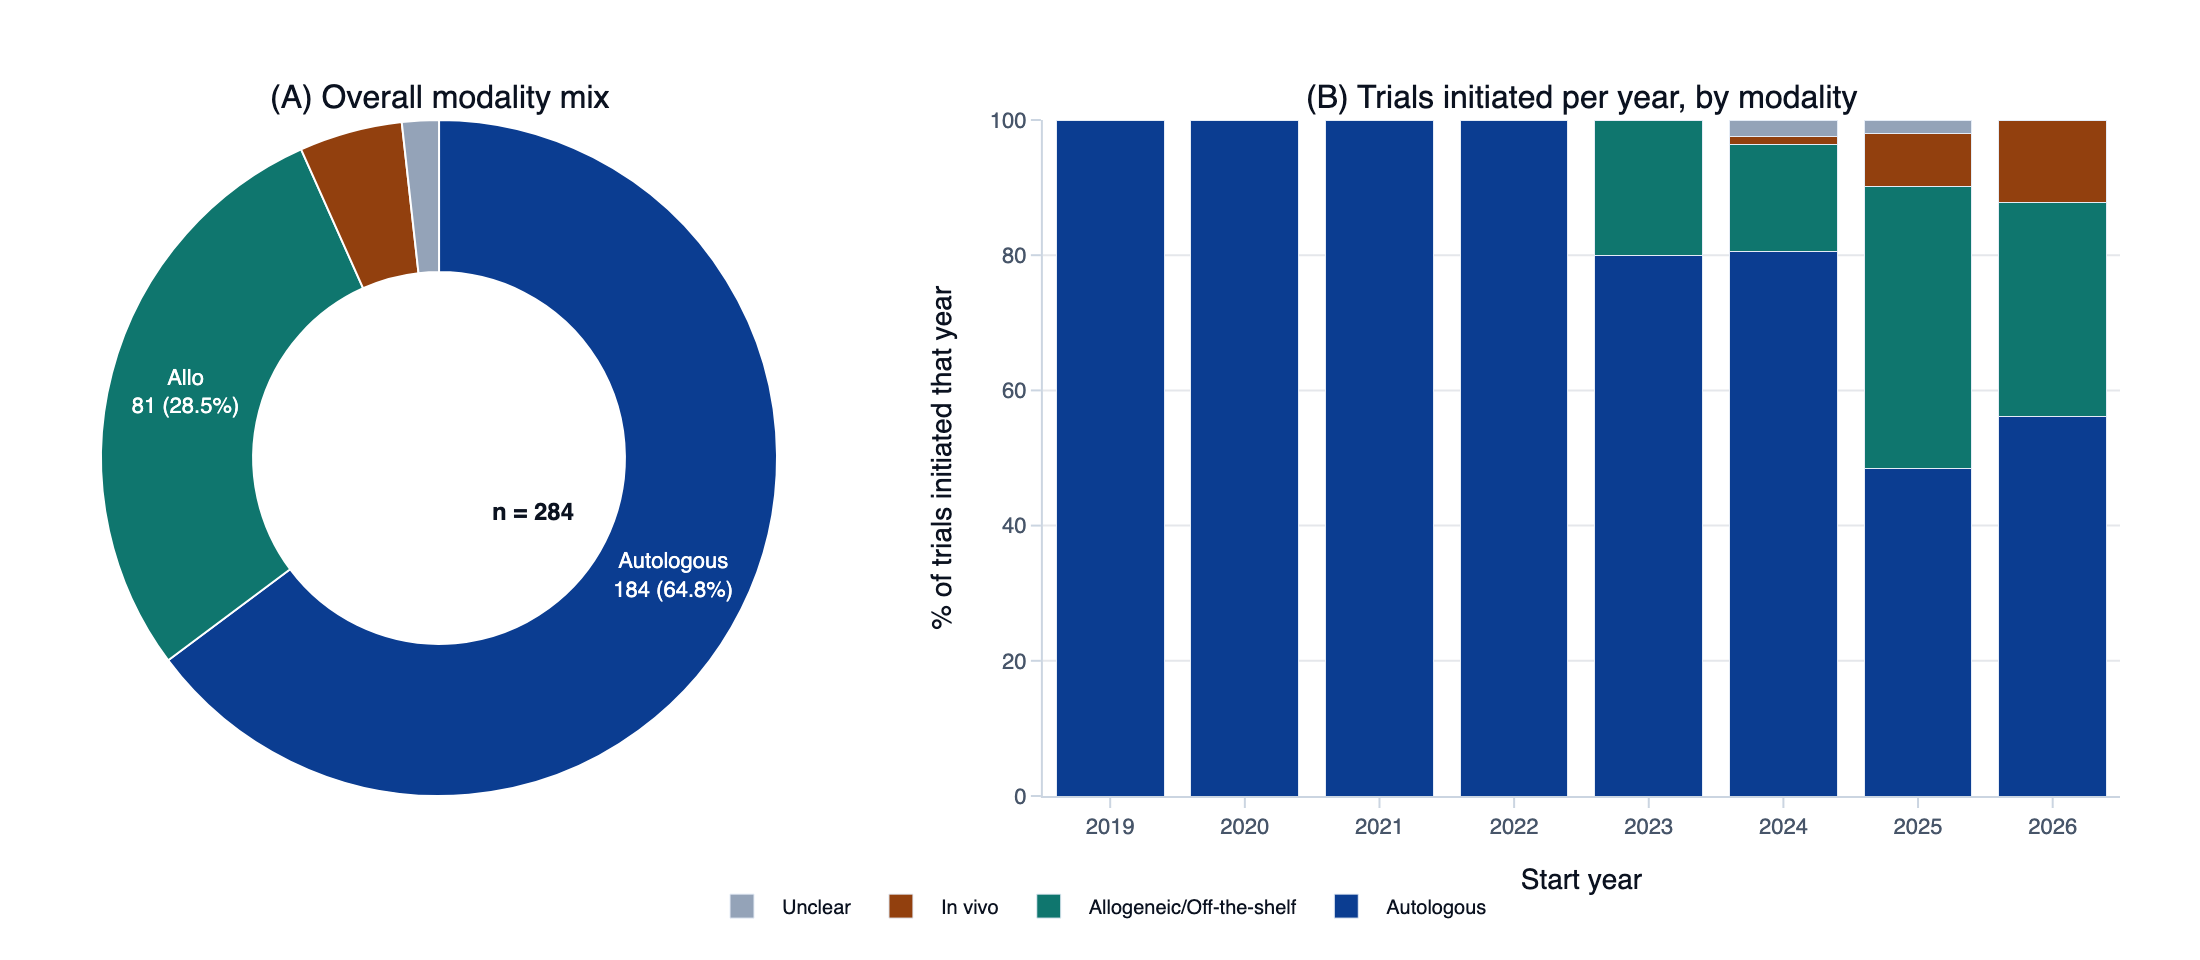
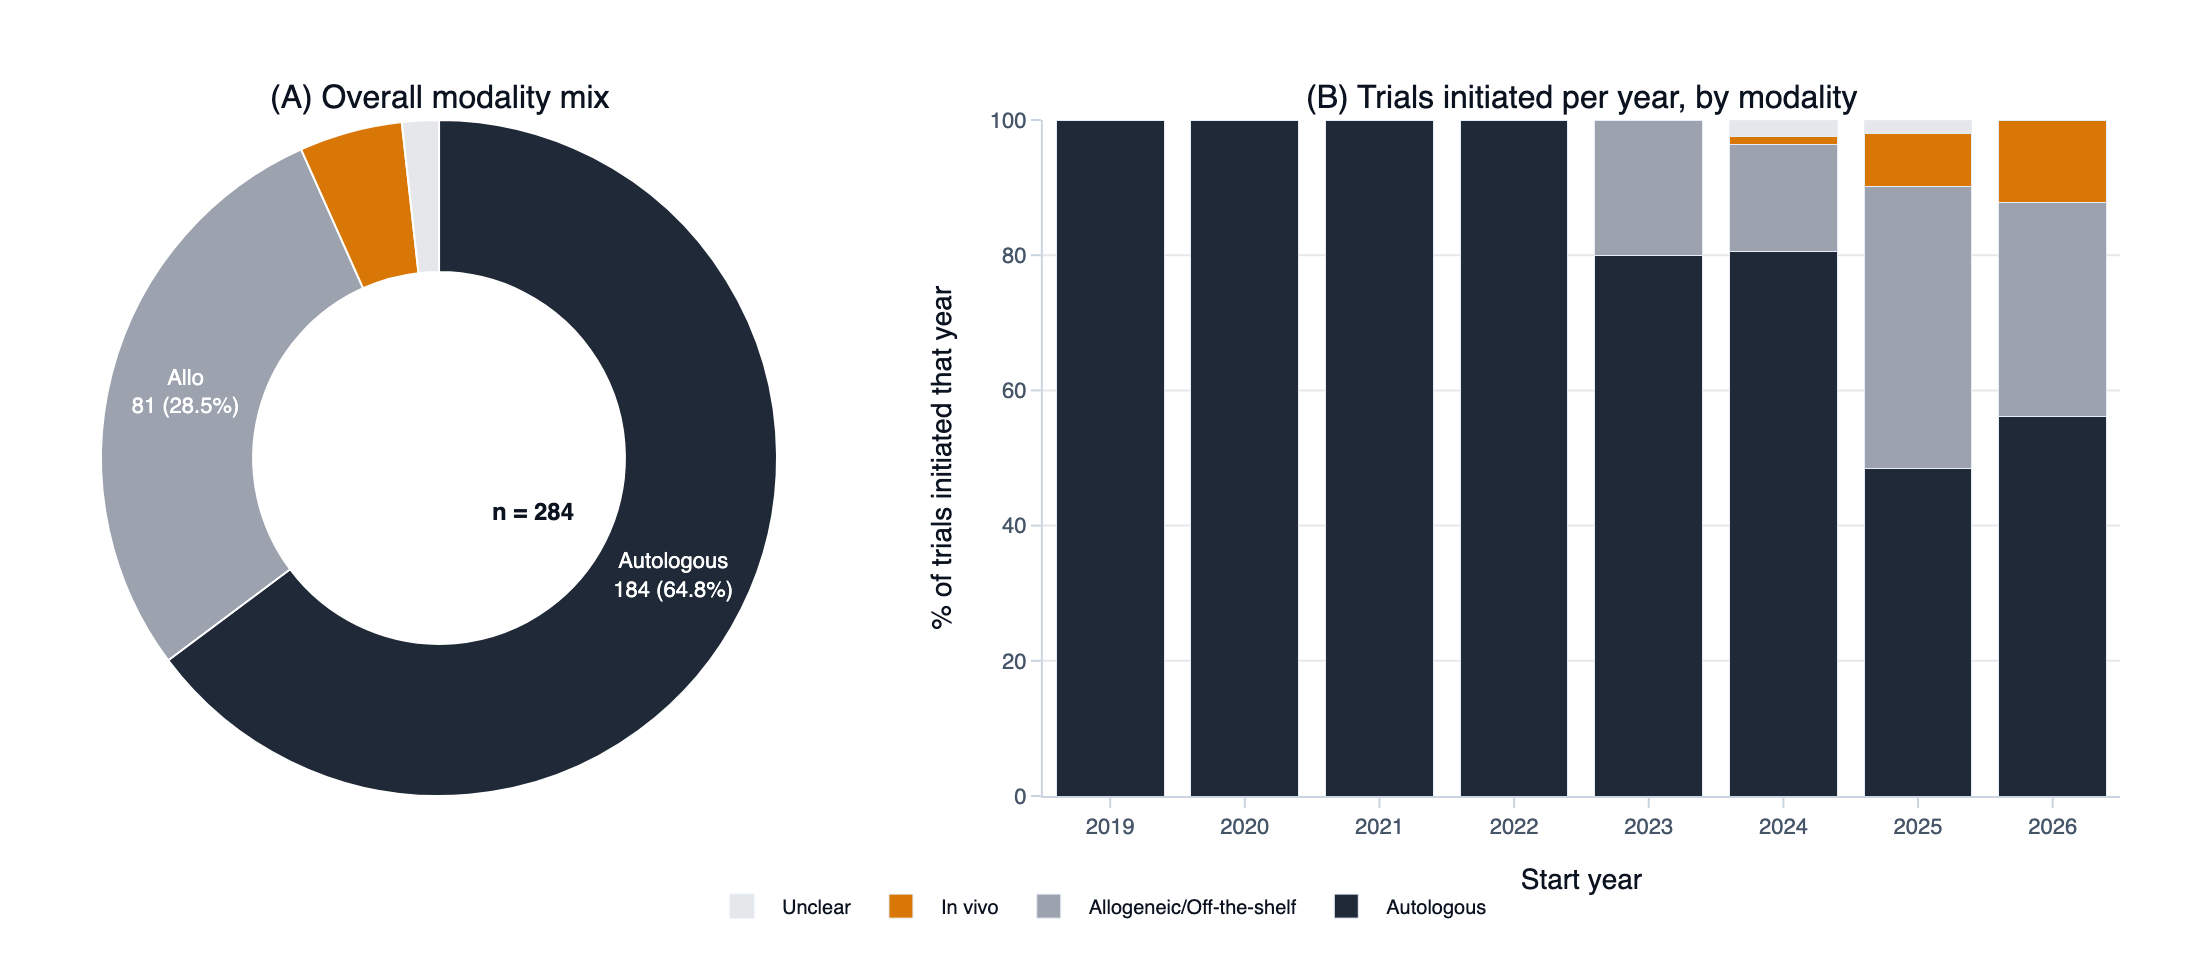
Fig 1 variable box heights + Fig 5 modality grayscale palette
Fig 1A: per-box half-height tuple replaces the fixed 0.08 so the
Excluded panel (5 text lines) renders without clipping while shorter
panels stay compact. Loop and arrow lines updated to consume the new
4th tuple element.

Fig 5: modality recoloured to a desaturated grayscale ramp with an
amber-600 accent for in-vivo. Removes the navy/amber/teal overlap with
Fig 4's target palette so a reader flipping between figures does not
mis-associate "Autologous" with "B-cell" or "Allo" with "Dual-target."

Auto       gray-800 (#1f2937)   established
Allo       gray-400 (#9ca3af)   scaling step
In vivo    amber-600 (#d97706)  frontier accent
Unclear    gray-200 (#e5e7eb)   residual

diff --git a/scripts/make_preprint_figures.py b/scripts/make_preprint_figures.py
@@ -49,10 +49,13 @@ TARGET_CLASS_COLORS = {
     "Undisclosed": "#94a3b8",
 }
 MODALITY_COLORS = {
-    "Autologous":              "#0b3d91",
-    "Allogeneic/Off-the-shelf":"#0f766e",
-    "In vivo":                 "#92400e",
-    "Unclear":                 "#94a3b8",
+    # Modality uses a desaturated grayscale ramp + amber accent for the
+    # emerging in-vivo frontier — keeps Fig 5 visually independent from
+    # Fig 4's target palette (where navy/amber/teal carry semantic meaning).
+    "Autologous":              "#1f2937",   # gray-800, established baseline
+    "Allogeneic/Off-the-shelf":"#9ca3af",   # gray-400, scaling step
+    "In vivo":                 "#d97706",   # amber-600 accent, frontier
+    "Unclear":                 "#e5e7eb",   # gray-200, residual
 }
 SPONSOR_COLORS = {
     "Academic": "#0b3d91",
@@ -247,25 +250,27 @@ def fig1_prisma_growth(df: pd.DataFrame, prisma: dict):
     )
 
     # --- Left panel: PRISMA flow as labelled boxes via shapes/annotations ---
+    # Each box: (label, n_string, center_y, half_height)
+    # The Excluded box gets a taller half_height to accommodate 5 text lines.
     boxes = [
         ("Records identified from<br>ClinicalTrials.gov v2 API",
-         f"n = {prisma['n_fetched']:,}", 0.86),
+         f"n = {prisma['n_fetched']:,}", 0.88, 0.08),
         ("After de-duplication",
-         f"n = {prisma['n_after_dedup']:,}", 0.66),
+         f"n = {prisma['n_after_dedup']:,}", 0.66, 0.07),
         (f"Excluded:<br>• Hard-excluded NCT IDs (n={prisma['n_hard_excluded']})<br>"
          f"• Indication keyword filters (n={prisma['n_indication_excluded']})<br>"
          f"• LLM-derived exclusions (n={prisma['n_llm_excluded']})",
-         f"n = {prisma['n_total_excluded']:,}", 0.40),
+         f"n = {prisma['n_total_excluded']:,}", 0.36, 0.13),
         ("Trials included in analysis",
-         f"n = {prisma['n_included']:,}", 0.14),
+         f"n = {prisma['n_included']:,}", 0.09, 0.07),
     ]
     box_x_lo, box_x_hi = 0.02, 0.36  # left subplot, width 0.34 fits long labels; center ~0.19
-    for i, (label, n, y) in enumerate(boxes):
+    for i, (label, n, y, hh) in enumerate(boxes):
         fillcolor = "#0b3d91" if i == len(boxes) - 1 else "#f8fafc"
         fontcolor = "#ffffff" if i == len(boxes) - 1 else THEME["text"]
         fig.add_shape(
             type="rect", xref="paper", yref="paper",
-            x0=box_x_lo, x1=box_x_hi, y0=y - 0.08, y1=y + 0.08,
+            x0=box_x_lo, x1=box_x_hi, y0=y - hh, y1=y + hh,
             line=dict(color=THEME["border"], width=1),
             fillcolor=fillcolor,
         )
@@ -277,8 +282,8 @@ def fig1_prisma_growth(df: pd.DataFrame, prisma: dict):
     # Connecting lines (drawn as shapes — no arrowheads; readers infer top→bottom flow)
     arrow_x = (box_x_lo + box_x_hi) / 2
     for i in range(len(boxes) - 1):
-        y_top = boxes[i][2] - 0.08
-        y_bot = boxes[i + 1][2] + 0.08
+        y_top = boxes[i][2] - boxes[i][3]
+        y_bot = boxes[i + 1][2] + boxes[i + 1][3]
         fig.add_shape(
             type="line", xref="paper", yref="paper",
             x0=arrow_x, x1=arrow_x, y0=y_top, y1=y_bot,
